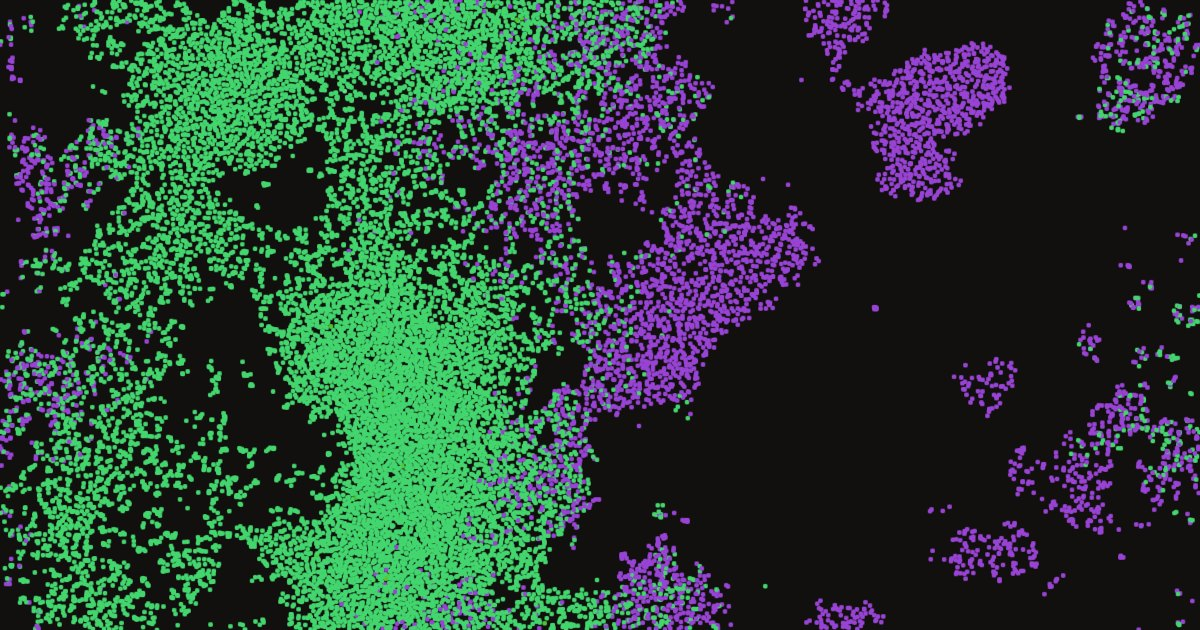
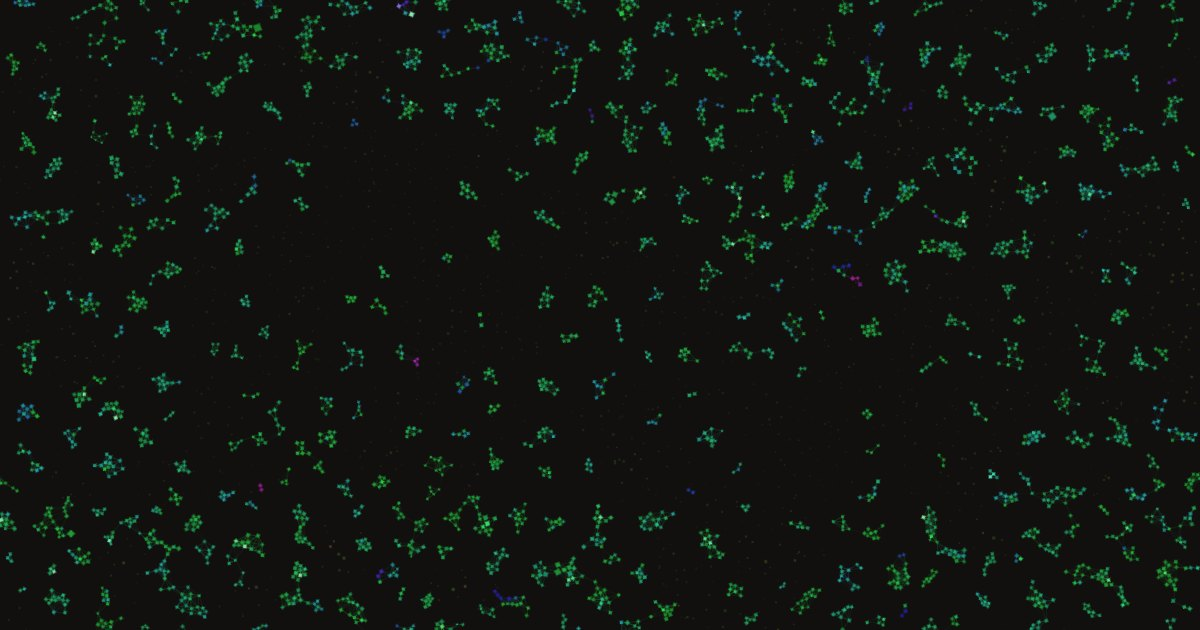
Species colour and shape fixed for each cell's life; new preview image
The species hash now comes from each species' founding genome (recorded
at founding, never changed) instead of its drifting reference, and the
cell shimmer from the cell's deviation from that founder. A cell's
species and genome never change, so neither do its colour and shape;
new looks appear as new species are founded. Replaces the hysteresis
bins from the previous commit.

og.jpg: a new 1200x630 link-preview image of the Trophic web default.

Claude-Session: https://claude.ai/code/session_01H1F715J8NpScusjxFER2m5

diff --git a/render.js b/render.js
@@ -71,51 +71,42 @@ export function trophicHSL(genome, base, en, emax) {
   return [hue, 68, light];
 }
 
-// Species hash. A species' reference genome (which follows its members) is binned
-// coarsely, HASH_BINS per gene, and hashed. Each species thus gets an arbitrary but
-// stable identity that changes only when a split founds a new species or when drift
-// carries the reference clearly into another bin. The bins have hysteresis: a gene only
-// moves to a new bin once the reference is HASH_MARGIN of a bin past the edge, so the
-// reference's tick-to-tick jitter near an edge can't make the colour and shape strobe.
-// Bins persist per species in state._spBins (cleared on reset). Colour mode 'hash' and
-// the shapes read it.
-const HASH_BINS = 6, HASH_MARGIN = 0.35;
+// Species hash. A species' FOUNDING genome — recorded when the species is founded and
+// never changed — is binned coarsely (HASH_BINS per gene) and hashed. Since a cell's
+// species never changes either, a cell's colour and shape are as constant as its
+// genome: they differ between species, and change down the generations only when a new
+// species is founded. Hashes are cached per species in state._spHash (cleared on reset).
+// Colour mode 'hash' and the shapes read it.
+const HASH_BINS = 6;
 export function makeSpeciesHasher(state, R) {
-  const ranges = geneRanges(R), memo = new Map();
-  if (!state._spBins) state._spBins = [];
+  const ranges = geneRanges(R);
+  if (!state._spHash) state._spHash = [];
+  const cache = state._spHash;
   const hash = (sp) => {
-    let h = memo.get(sp);
+    let h = cache[sp];
     if (h !== undefined) return h;
-    const ref = state.spRef[sp];
-    let bins = state._spBins[sp];
+    const f = state.spFounder[sp];
     h = 2166136261;
-    if (ref) {
-      if (!bins) bins = state._spBins[sp] = new Int8Array(G).fill(-1);
-      for (let g = 0; g < G; g++) {
-        const u = (ref[g] - ranges[g][0]) / (ranges[g][1] - ranges[g][0]) * HASH_BINS;
-        let q = bins[g];
-        if (q < 0 || u < q - HASH_MARGIN || u > q + 1 + HASH_MARGIN) {
-          q = Math.floor(u); if (q < 0) q = 0; else if (q >= HASH_BINS) q = HASH_BINS - 1;
-          bins[g] = q;
-        }
-        h = Math.imul(h ^ (q + 16 * g), 16777619);
-      }
+    if (f) for (let g = 0; g < G; g++) {
+      let q = Math.floor((f[g] - ranges[g][0]) / (ranges[g][1] - ranges[g][0]) * HASH_BINS);
+      if (q < 0) q = 0; else if (q >= HASH_BINS) q = HASH_BINS - 1;
+      h = Math.imul(h ^ (q + 16 * g), 16777619);
     }
     h ^= h >>> 15; h = Math.imul(h, 0x2c1b3c6d); h ^= h >>> 12; h = Math.imul(h, 0x297a2d39); h ^= h >>> 15;
     h >>>= 0;
-    memo.set(sp, h);
+    cache[sp] = h;
     return h;
   };
   hash.ranges = ranges;   // shared with hashHSL so it isn't rebuilt per cell
   return hash;
 }
-// Hash colour: hue, saturation and base lightness from the species hash; each cell's own
-// genome adds a small lightness/saturation shimmer by how it differs from its species'
-// reference, so mutations show as texture within a species.
+// Hash colour: hue, saturation and base lightness from the species hash; each cell adds a
+// small lightness/saturation shimmer by how its own genome differs from its species'
+// founding genome — fixed for the cell's life, but varied between relatives.
 export function hashHSL(state, i, hash) {
-  const h = hash(state.species[i]), ref = state.spRef[state.species[i]], ranges = hash.ranges, base = i * G, GEN = state.genome;
+  const sp = state.species[i], h = hash(sp), f = state.spFounder[sp], ranges = hash.ranges, base = i * G, GEN = state.genome;
   let d = 0;
-  if (ref) for (let g = 0; g < G; g++) d += PW[g] * (GEN[base + g] - ref[g]) / (ranges[g][1] - ranges[g][0]);
+  if (f) for (let g = 0; g < G; g++) d += PW[g] * (GEN[base + g] - f[g]) / (ranges[g][1] - ranges[g][0]);
   const sh = Math.max(-1, Math.min(1, d * 6));
   return [h % 360, 58 + ((h >>> 9) % 22) + 6 * sh, 52 + ((h >>> 17) % 10) + 9 * sh];
 }
@@ -127,9 +118,9 @@ export function hashHSL(state, i, hash) {
 // per-cell rotation from their own genome. 0 sides = circle.
 export const SHAPE_SIDES = [4, 5, 6, 0];
 export function speciesSides(state, sp, hash) {
-  const ref = state.spRef[sp];
-  if (!ref) return 0;
-  if (ref[GENE.align] >= 0.5) return 3;
+  const f = state.spFounder[sp];
+  if (!f) return 0;
+  if (f[GENE.align] >= 0.5) return 3;
   return SHAPE_SIDES[(hash(sp) >>> 24) % SHAPE_SIDES.length];
 }
 // Rotation of the first vertex: a triangle's points along the cell's heading.

diff --git a/main.js b/main.js
@@ -131,7 +131,7 @@ const HELP = {
   speciesThreshold: 'Species threshold (genetic distance, the FINE tier). Each species keeps a reference genome that follows its members as they drift. An offspring that differs from that reference by more than this founds a new species within the same genus, so a species splits only when part of it diverges from the rest. Lower = species split more readily; 0 = never.',
   genusThreshold: 'Genus threshold (genetic distance, the COARSE tier). Like the species threshold, but measured from the genus’ reference genome (which also follows its members): an offspring beyond this founds a new genus (and a new species inside it). Set it above the species threshold; genus = the larger colour family, species = the shade within it. 0 = off.',
   isolation: 'Reproductive isolation (genetic distance). With crossover, a second parent must be within this distance of the first, so diverged species stop interbreeding and can drift apart. 0 = off (mate with any neighbour).',
-  color: 'species hash = each species gets an arbitrary colour from a hash of its reference genome (coarsely binned, so it stays put until the species drifts or splits); each cell shimmers slightly lighter or darker by how its own genes differ from its species’. phenotype = colour encodes the genome (hue = the middle of its survival window, saturation = how narrow that window is, lightness = restlessness) — similar genomes look similar. genealogy = each founder lineage gets a distinct base hue and every speciation steps the colour a little, so related species share a colour family and drift step-wise. trophic = green autotrophs ("plants") → red heterotrophs ("animals"), brightness = current energy (needs the energy model on).',
+  color: 'species hash = each species gets an arbitrary colour from a hash of its founding genome, so a cell’s colour (and shape) never changes during its life, and new colours appear when new species are founded; each cell shimmers slightly lighter or darker by how its own genes differ from its species’ founder. phenotype = colour encodes the genome (hue = the middle of its survival window, saturation = how narrow that window is, lightness = restlessness) — similar genomes look similar. genealogy = each founder lineage gets a distinct base hue and every speciation steps the colour a little, so related species share a colour family and drift step-wise. trophic = green autotrophs ("plants") → red heterotrophs ("animals"), brightness = current energy (needs the energy model on).',
   energy: 'Energy / trophic model. When ON, every cell carries an energy budget: it pays metabolic upkeep each tick (more complex genomes cost more), FEEDS to refill it — autotrophs harvest the resource field (the olive gradient), heterotrophs prey on nearby cells — STARVES if energy hits zero, and must bank enough energy to reproduce. The `trophic` gene sets the mix, so selection can split a lineage into plants and animals. (Replaces the fecundity-discount cost model while on.)',
   fieldContrast: 'Patchiness of the resource field. 0 = flat (food everywhere), 1 = high-contrast peaks and deserts. Patchier fields reward autotrophs that sit in the rich spots and push others to prey instead.',
   fieldRegrow: 'How fast the resource field refills toward its local capacity each tick ("sunlight"). Low = grazed patches stay bare for a while, so autotrophs must spread out; high = food comes back fast.',

diff --git a/sim.js b/sim.js
@@ -109,7 +109,8 @@ export function foundGenus(state, genome, off, lineageId, parent) {
 // species that also founded a new genus (a large colour step). Genealogy only.
 export function foundSpecies(state, genome, off, lineageId, parent, genus, big) {
   const id = state.nextSpecies++;
-  state.spRef[id] = copyGenome(genome, off);
+  state.spRef[id] = copyGenome(genome, off);       // follows the members (divergence tests)
+  state.spFounder[id] = copyGenome(genome, off);   // fixed forever (the species' look)
   state.spLineage[id] = lineageId; state.spParent[id] = parent; state.spGenus[id] = genus; state.spBig[id] = big ? 1 : 0;
   return id;
 }
@@ -194,9 +195,9 @@ export function createState(cap) {
     // spatial noise, current level regrows toward it and is grazed by autotrophs.
     field: null, fieldK: null, fieldNX: 0, fieldNY: 0, _fieldW: -1, _fieldH: -1, _fieldSeed: -1,
     // divergence registries (grow): species (fine) and genus (coarse) tiers
-    spRef: [], spParent: [], spLineage: [], spGenus: [], spBig: [], nextSpecies: 0,
+    spRef: [], spFounder: [], spParent: [], spLineage: [], spGenus: [], spBig: [], nextSpecies: 0,
     gRef: [], gParent: [], gLineage: [], nextGenus: 0,
-    _spColor: [], _spBins: [],   // renderer-owned caches keyed by species id (genealogy colour, species-hash bins); cleared on reset
+    _spColor: [], _spHash: [],   // renderer-owned caches keyed by species id (genealogy colour, species hash); cleared on reset
     rng: makeRNG(1),
     _scratch: null, _rangesR: -1, _ranges: null,
   };
@@ -204,9 +205,9 @@ export function createState(cap) {
 
 export function resetState(state, seed) {
   state.count = 0; state.tick = 0; state.nextLineage = 1;
-  state.spRef = []; state.spParent = []; state.spLineage = []; state.spGenus = []; state.spBig = []; state.nextSpecies = 0;
+  state.spRef = []; state.spFounder = []; state.spParent = []; state.spLineage = []; state.spGenus = []; state.spBig = []; state.nextSpecies = 0;
   state.gRef = []; state.gParent = []; state.gLineage = []; state.nextGenus = 0;
-  state._spColor = []; state._spBins = [];   // renderer caches (genealogy colours, species-hash bins)
+  state._spColor = []; state._spHash = [];   // renderer caches (genealogy colours, species hashes)
   state._fieldW = -1; state._fieldH = -1; state._fieldSeed = -1;   // force the field to rebuild for the new run
   state.rng = makeRNG(seed >>> 0);
 }

diff --git a/README.md b/README.md
@@ -62,11 +62,11 @@ to 0.35R radius), and no two bodies overlap: an offspring that can't find free s
 isn't born, and a blocked move first tries to slide 60° either way before waiting. Each
 cell is drawn at its body size.
 
-By default, cells are coloured by **species hash**: each species' reference genome is
-coarsely binned and hashed into an arbitrary colour, so species look distinct and change
-colour when they drift or split; each cell shimmers by how its own genes differ from its
-species'. The same hash picks each species' **shape** (square, pentagon, hexagon or
-circle).
+By default, cells are coloured by **species hash**: each species' founding genome is
+coarsely binned and hashed into an arbitrary colour, so species look distinct, and a
+cell's colour never changes during its life; new colours appear as new species are
+founded. Each cell shimmers by how its own genes differ from its species' founder. The
+same hash picks each species' **shape** (square, pentagon, hexagon or circle).
 
 Each cell also carries a **heading**, inherited by its offspring. Its **pack instinct**
 gene sets how much it steers by that heading and turns it toward its neighbours'
